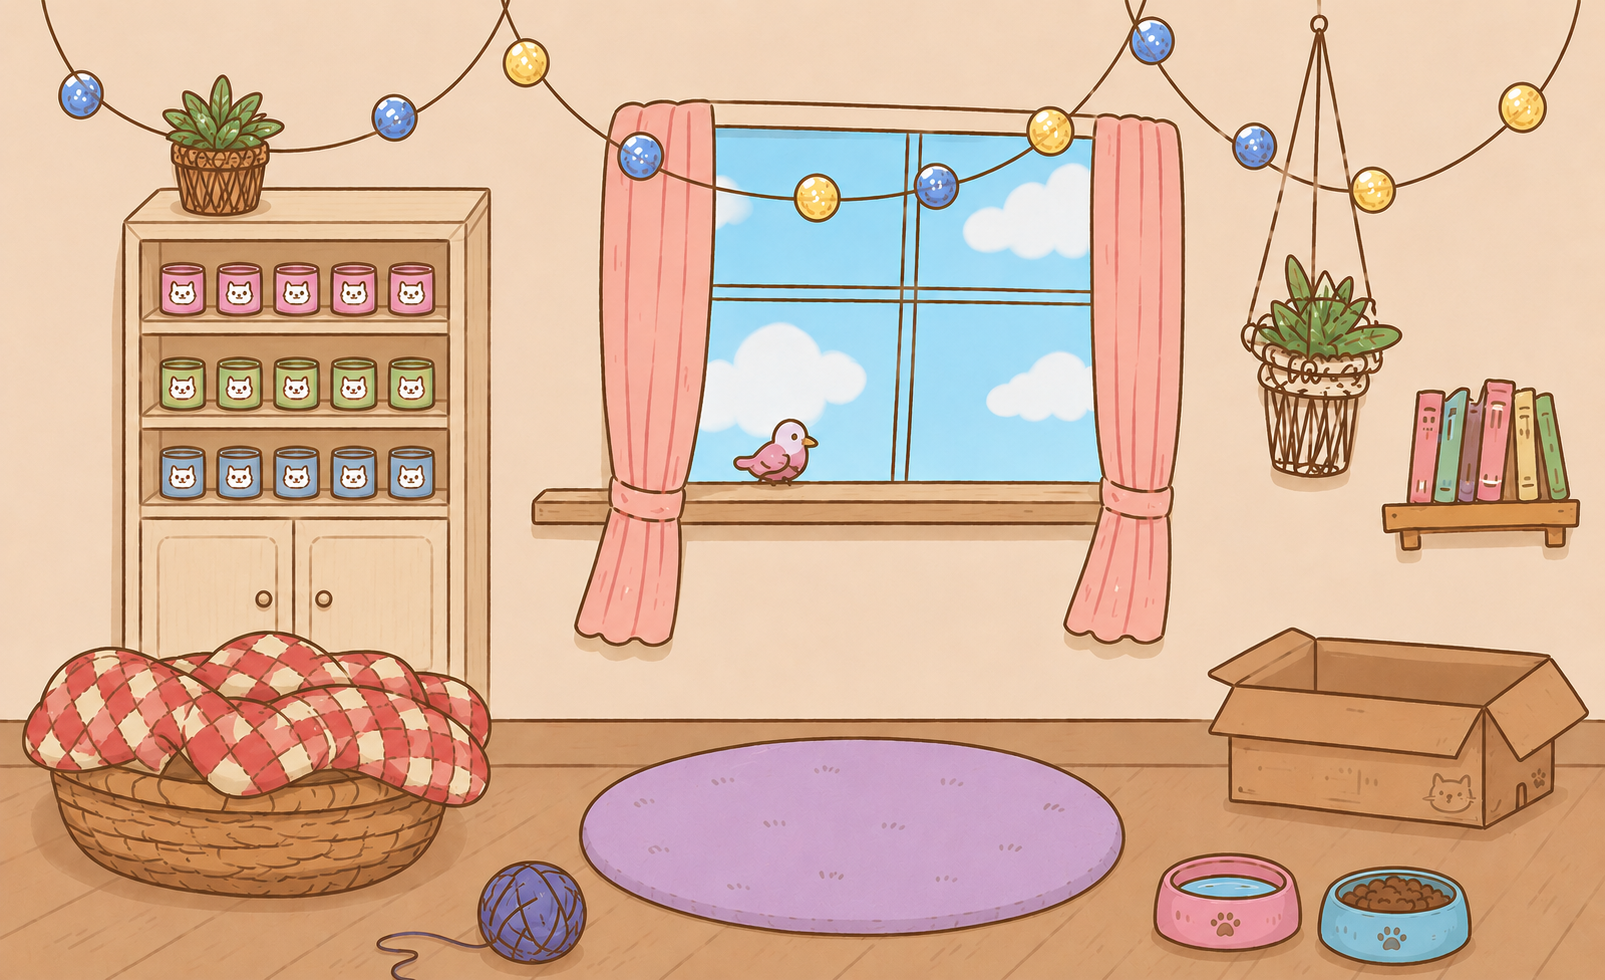
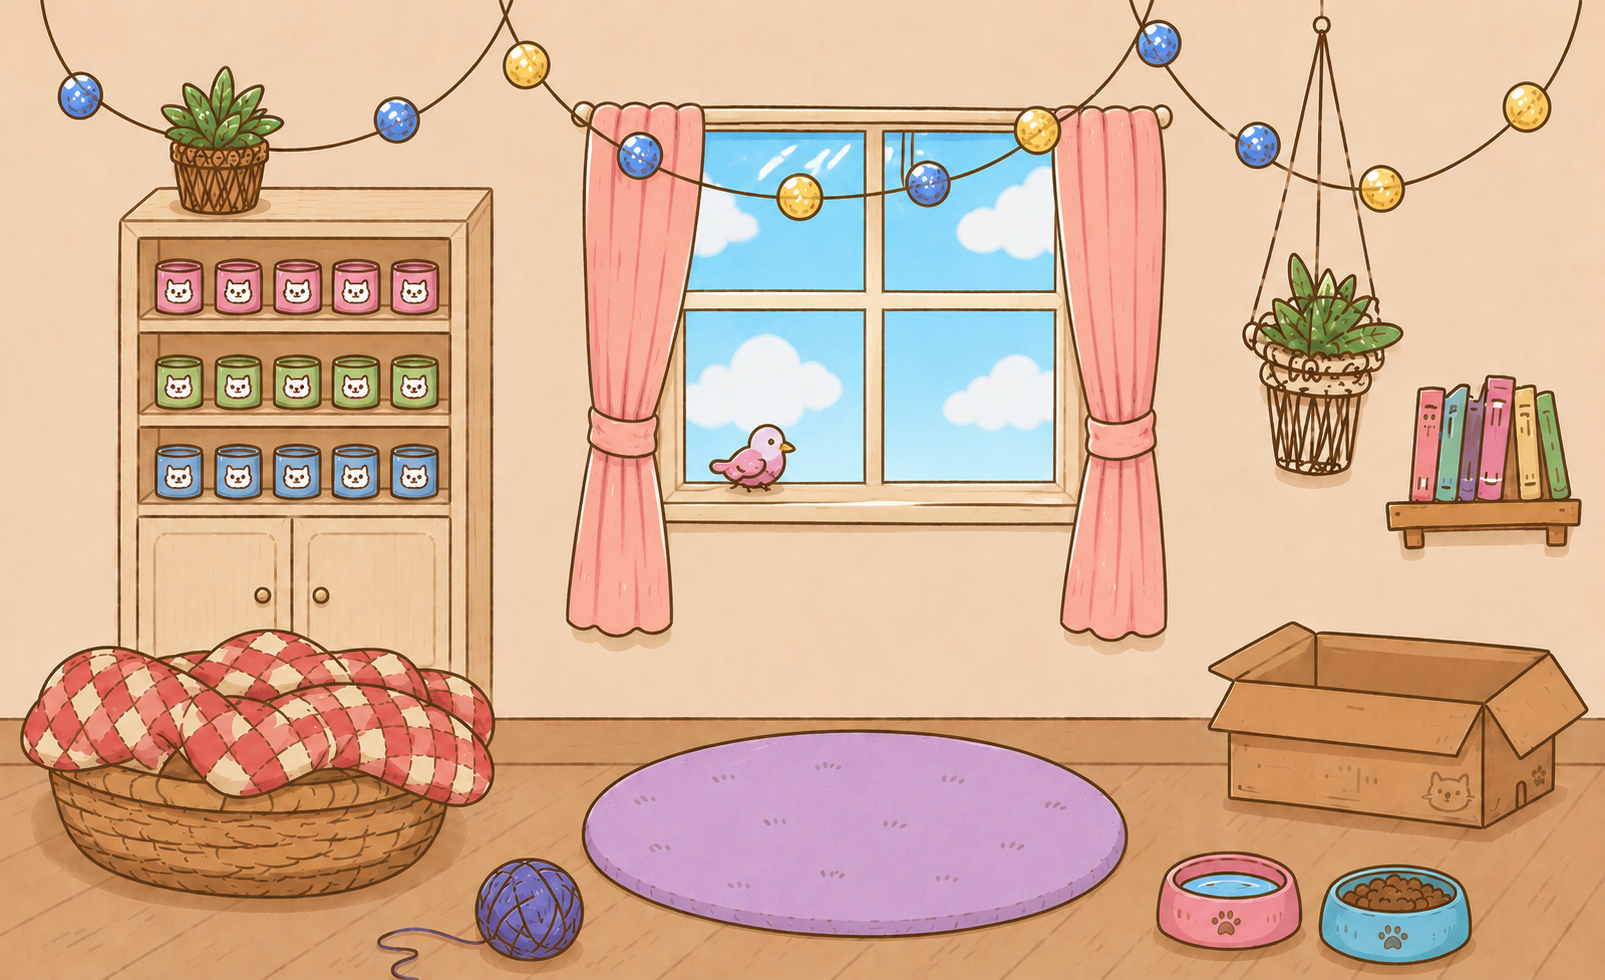
feat: carousel selector to select cat

diff --git a/js/select.js b/js/select.js
@@ -1,0 +1,56 @@
+
+const skins = [
+  { shape: 'normal', color: 'black' },
+  { shape: 'normal', color: 'browntabby' },
+  { shape: 'normal', color: 'calico' },
+  { shape: 'normal', color: 'cream' },
+  { shape: 'normal', color: 'greytabby' },
+  { shape: 'normal', color: 'orangetabby' },
+  { shape: 'normal', color: 'russianblue' },
+  { shape: 'normal', color: 'tonkinese' },
+  { shape: 'normal', color: 'tuxedo' },
+  { shape: 'normal', color: 'white' },
+  { shape: 'fluffy', color: 'black' },
+  { shape: 'fluffy', color: 'chinchilla' },
+  { shape: 'fluffy', color: 'flamepoint' },
+  { shape: 'fluffy', color: 'grey' },
+  { shape: 'fluffy', color: 'mainecoon' },
+  { shape: 'fluffy', color: 'orange' },
+  { shape: 'fluffy', color: 'ragdoll' },
+  { shape: 'fluffy', color: 'siberian' },
+  { shape: 'fluffy', color: 'somali' },
+  { shape: 'fluffy', color: 'white' },
+];
+
+let skinIndex = 0;
+
+function updateSkinDisplay() {
+  const skin = skins[skinIndex];
+  document.getElementById('skin-name').textContent = `${skin.shape} ${skin.color}`;
+  document.getElementById('skin-idx').textContent = `${skinIndex + 1} / ${skins.length}`;
+}
+
+document.getElementById('skin-prev').addEventListener('click', () => {
+  skinIndex = (skinIndex - 1 + skins.length) % skins.length;
+  updateSkinDisplay();
+});
+
+document.getElementById('skin-next').addEventListener('click', () => {
+  skinIndex = (skinIndex + 1) % skins.length;
+  updateSkinDisplay();
+});
+
+document.getElementById('skin-go').addEventListener('click', async () => {
+  const skin = skins[skinIndex];
+  ipcRenderer.send('set-cat-shape', skin.shape);
+  ipcRenderer.send('set-cat-color', skin.color);
+
+  catBody     = skin.shape;
+  catColor    = skin.color;
+  collarcolor = await ipcRenderer.invoke('get-collar-color');
+
+  document.getElementById('skin-selector').style.display = 'none';
+  initCat();
+});
+
+updateSkinDisplay();

diff --git a/main.js b/main.js
@@ -18,6 +18,9 @@ let alwaysOnTopEnabled = store.get('alwaysOnTop', false);
 let win;
 let checklistWin;
 let roomWin;
+let catcolor = 'orange';
+let catshape = 'fluffy';
+let collarcolor = 'red';
 
 // ── window creation ───────────────────────────────────────
 
@@ -120,7 +123,7 @@ function createRoomWindow(x, y, name, code, creator) {
 
 function windowOnTop(alwaysOnTopEnabled, win){
   if (alwaysOnTopEnabled) {
-    win.setAlwaysOnTop(true, 'screen-saver');
+    win.setAlwaysOnTop(true, 'screen-saver', 1);
     win.setVisibleOnAllWorkspaces(true, { visibleOnFullScreen: true });
   } else {
     win.setAlwaysOnTop(false);
@@ -226,6 +229,26 @@ ipcMain.on('timer-request-unblock', async () => {
   } catch (err) {
     console.error('Unblocking failed:', err);
   }
+});
+
+// ── cat skins ─────────────────────────────────────────────
+
+ipcMain.handle('get-cat-color', () => catcolor);
+
+ipcMain.handle('get-cat-shape', () => catshape);
+
+ipcMain.handle('get-collar-color', () => collarcolor);
+
+ipcMain.on('set-cat-color', (event, color) => {
+  catcolor = color;
+});
+
+ipcMain.on('set-cat-shape', (event, shape) => {
+  catshape = shape;
+});
+
+ipcMain.on('set-collar-color', (event, color) => {
+  collarcolor = color;
 });
 
 // ── app ───────────────────────────────────────────────────

diff --git a/css/select.css b/css/select.css
@@ -1,0 +1,73 @@
+.skin-selector {
+    position: absolute;
+    inset: 20px;
+    background: #eda3a3;
+    border-radius: 10px;
+    display: flex;
+    flex-direction: column;
+    align-items: center;
+    justify-content: center;
+    gap: 16px;
+    font-family: 'Nunito', sans-serif;
+    box-shadow: 0px 4px 12px rgba(0, 0, 0, 0.3);
+    -webkit-app-region: no-drag;
+    z-index: 999;
+}
+
+.skin-prompt {
+    font-size: 15px;
+    color: #555;
+    margin: 0;
+}
+
+.skin-row {
+    display: flex;
+    align-items: center;
+    gap: 16px;
+}
+
+#skin-prev, #skin-next {
+    width: 36px;
+    height: 36px;
+    border-radius: 10px;
+    background: rgba(255, 255, 255, 0.5);
+    border: 1px solid rgba(0, 0, 0, 0.2);
+    font-size: 16px;
+    cursor: pointer;
+    display: flex;
+    align-items: center;
+    justify-content: center;
+    color: #333;
+}
+
+#skin-prev:hover, #skin-next:hover {
+    background: rgba(255, 255, 255, 0.8);
+}
+
+#skin-name {
+    font-size: 22px;
+    font-weight: 700;
+    color: #333;
+    min-width: 180px;
+    text-align: center;
+}
+
+#skin-idx {
+    font-size: 13px;
+    color: #666;
+}
+
+#skin-go {
+    background: rgba(255, 255, 255, 0.5);
+    border: 1px solid rgba(0, 0, 0, 0.2);
+    border-radius: 8px;
+    padding: 8px 28px;
+    font-size: 16px;
+    font-family: 'Nunito', sans-serif;
+    color: #333;
+    cursor: pointer;
+}
+
+#skin-go:hover {
+    background: rgba(255, 255, 255, 0.8);
+}

diff --git a/js/cat/cat.js b/js/cat/cat.js
@@ -1,15 +1,22 @@
 // cat.js
- 
-const animations = [eat];
-const catBody  = 'fluffy';
-const catColor = 'black';
-const collarcolor = 'red';
+
+const animations = [sleep2, eat];
 const collar = document.querySelector('.collar');
  
 let activeLayer  = null;
 let catContainer = null;
+let catBody;
+let catColor;
+let collarcolor;
 
- 
+// ─── load cat skin ───────────────────────────────────────────────────────────
+
+async function loadCatSkin() {
+  catBody     = await ipcRenderer.invoke('get-cat-shape');
+  catColor    = await ipcRenderer.invoke('get-cat-color');
+  collarcolor = await ipcRenderer.invoke('get-collar-color');
+}
+
 // ─── resolve frames ──────────────────────────────────────────────────────────
  
 function resolveFrames(frames) {
@@ -129,8 +136,4 @@ async function scheduleNext() {
     await playAnim(anim);
   }
 }
- 
-document.addEventListener('DOMContentLoaded', () => {
-  initCat();
-});
  

diff --git a/index.html b/index.html
@@ -8,6 +8,7 @@
   <link rel="stylesheet" href="css/settings.css">
   <link rel="stylesheet" href="css/invite.css">
   <link rel="stylesheet" href="css/cat.css">
+  <link rel="stylesheet" href="css/select.css">
 </head>
 <body>
   <div class="frame">
@@ -22,6 +23,16 @@
         <button class="invite-btn">invite</button>
         <button class="timer-btn">timer</button>
         <button class="checklist-btn">checklist</button>
+      </div>
+      <div class="skin-selector" id="skin-selector">
+        <p class="skin-prompt">choose your cat</p>
+        <div class="skin-row">
+          <button id="skin-prev">◀</button>
+          <span id="skin-name">fluffy chinchilla</span>
+          <button id="skin-next">▶</button>
+        </div>
+        <span id="skin-idx"></span>
+        <button id="skin-go">let's go</button>
       </div>
       <div class="invite-content">
         <div class="invitation-block">
@@ -82,5 +93,6 @@
   <script src="js/timer.js"></script>
   <script src="js/settings.js"></script>
   <script src="js/invite.js"></script>
+  <script src="js/select.js"></script>
 </body>
 </html>

diff --git a/js/cat/sleep2.js b/js/cat/sleep2.js
@@ -38,6 +38,7 @@ const sleep2 = {
     maxTime: 1800000,
     position: {right: '223px', top: '73.5px'},
     size: {width: '220px', height: '220px'},
-    rotation: -5
+    rotation: -5,
+    collarposition: {right: '223px', top: '73.5px'},
   
 }

diff --git a/js/render.js b/js/render.js
@@ -54,3 +54,4 @@ checklistbutton.addEventListener('click', () => {
 ipcRenderer.on('checklist-closed', () => {
   checklistOpen = false;
 });
+
